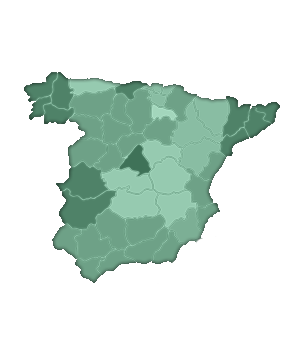
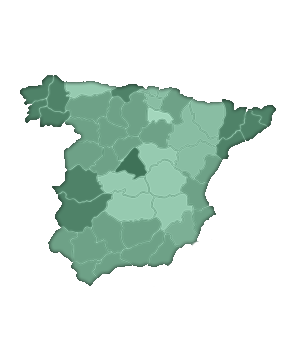
FIX: Recolocacion del mapa

diff --git a/src/bntrip/vista/HomeWindow/HomeWindow.java b/src/bntrip/vista/HomeWindow/HomeWindow.java
@@ -152,6 +152,7 @@ public class HomeWindow extends javax.swing.JFrame {
             }
         });
         panelMenuSuperior.add(sliderPrecio);
+        sliderPrecio.getAccessibleContext().setAccessibleName("Precio Máximo");
 
         spinerHuespedes.setToolTipText("Numero de Huespedes");
         spinerHuespedes.setBorder(javax.swing.BorderFactory.createTitledBorder("Huespedes"));
@@ -161,6 +162,7 @@ public class HomeWindow extends javax.swing.JFrame {
             }
         });
         panelMenuSuperior.add(spinerHuespedes);
+        spinerHuespedes.getAccessibleContext().setAccessibleName("Huéspedes");
 
         panelFechas.setLayout(new java.awt.GridLayout(1, 2));
 
@@ -211,7 +213,7 @@ public class HomeWindow extends javax.swing.JFrame {
                 MurciaMouseClicked(evt);
             }
         });
-        panelMenuMapa.add(Murcia, new org.netbeans.lib.awtextra.AbsoluteConstraints(180, 180, -1, -1));
+        panelMenuMapa.add(Murcia, new org.netbeans.lib.awtextra.AbsoluteConstraints(170, 210, -1, -1));
 
         buttonGroup1.add(Barcelona);
         Barcelona.setBorder(javax.swing.BorderFactory.createCompoundBorder());
@@ -220,7 +222,7 @@ public class HomeWindow extends javax.swing.JFrame {
                 BarcelonaMouseClicked(evt);
             }
         });
-        panelMenuMapa.add(Barcelona, new org.netbeans.lib.awtextra.AbsoluteConstraints(250, 80, -1, -1));
+        panelMenuMapa.add(Barcelona, new org.netbeans.lib.awtextra.AbsoluteConstraints(240, 100, -1, -1));
 
         buttonGroup1.add(Cadiz);
         Cadiz.setBorder(javax.swing.BorderFactory.createCompoundBorder());
@@ -229,7 +231,7 @@ public class HomeWindow extends javax.swing.JFrame {
                 CadizMouseClicked(evt);
             }
         });
-        panelMenuMapa.add(Cadiz, new org.netbeans.lib.awtextra.AbsoluteConstraints(80, 220, -1, -1));
+        panelMenuMapa.add(Cadiz, new org.netbeans.lib.awtextra.AbsoluteConstraints(80, 240, -1, -1));
 
         buttonGroup1.add(Cualquiera);
         Cualquiera.setSelected(true);
@@ -239,23 +241,23 @@ public class HomeWindow extends javax.swing.JFrame {
                 CualquieraMouseClicked(evt);
             }
         });
-        panelMenuMapa.add(Cualquiera, new org.netbeans.lib.awtextra.AbsoluteConstraints(120, 240, -1, -1));
+        panelMenuMapa.add(Cualquiera, new org.netbeans.lib.awtextra.AbsoluteConstraints(30, 20, -1, -1));
 
         jLabel3.setFont(new java.awt.Font("Ubuntu", 1, 15)); // NOI18N
         jLabel3.setText("Barcelona");
-        panelMenuMapa.add(jLabel3, new org.netbeans.lib.awtextra.AbsoluteConstraints(220, 90, -1, -1));
+        panelMenuMapa.add(jLabel3, new org.netbeans.lib.awtextra.AbsoluteConstraints(200, 120, -1, -1));
 
         jLabel2.setFont(new java.awt.Font("Ubuntu", 1, 15)); // NOI18N
         jLabel2.setText("Madrid");
-        panelMenuMapa.add(jLabel2, new org.netbeans.lib.awtextra.AbsoluteConstraints(110, 90, -1, -1));
+        panelMenuMapa.add(jLabel2, new org.netbeans.lib.awtextra.AbsoluteConstraints(110, 110, -1, -1));
 
         jLabel4.setFont(new java.awt.Font("Ubuntu", 1, 15)); // NOI18N
         jLabel4.setText("Cadiz");
-        panelMenuMapa.add(jLabel4, new org.netbeans.lib.awtextra.AbsoluteConstraints(70, 200, -1, -1));
+        panelMenuMapa.add(jLabel4, new org.netbeans.lib.awtextra.AbsoluteConstraints(70, 220, -1, -1));
 
         jLabel5.setFont(new java.awt.Font("Ubuntu", 1, 15)); // NOI18N
         jLabel5.setText("Murcia");
-        panelMenuMapa.add(jLabel5, new org.netbeans.lib.awtextra.AbsoluteConstraints(160, 160, -1, -1));
+        panelMenuMapa.add(jLabel5, new org.netbeans.lib.awtextra.AbsoluteConstraints(170, 190, -1, -1));
 
         buttonGroup1.add(Madrid);
         Madrid.setBorder(javax.swing.BorderFactory.createCompoundBorder());
@@ -264,11 +266,11 @@ public class HomeWindow extends javax.swing.JFrame {
                 MadridMouseClicked(evt);
             }
         });
-        panelMenuMapa.add(Madrid, new org.netbeans.lib.awtextra.AbsoluteConstraints(130, 110, -1, -1));
+        panelMenuMapa.add(Madrid, new org.netbeans.lib.awtextra.AbsoluteConstraints(120, 130, 20, 20));
 
         foto.setBackground(new java.awt.Color(196, 237, 228));
         foto.setIcon(new javax.swing.ImageIcon(getClass().getResource("/images/mapa.png"))); // NOI18N
-        panelMenuMapa.add(foto, new org.netbeans.lib.awtextra.AbsoluteConstraints(0, 0, 290, 270));
+        panelMenuMapa.add(foto, new org.netbeans.lib.awtextra.AbsoluteConstraints(0, 20, 290, 270));
 
         PanelMenu.add(panelMenuMapa);
 
